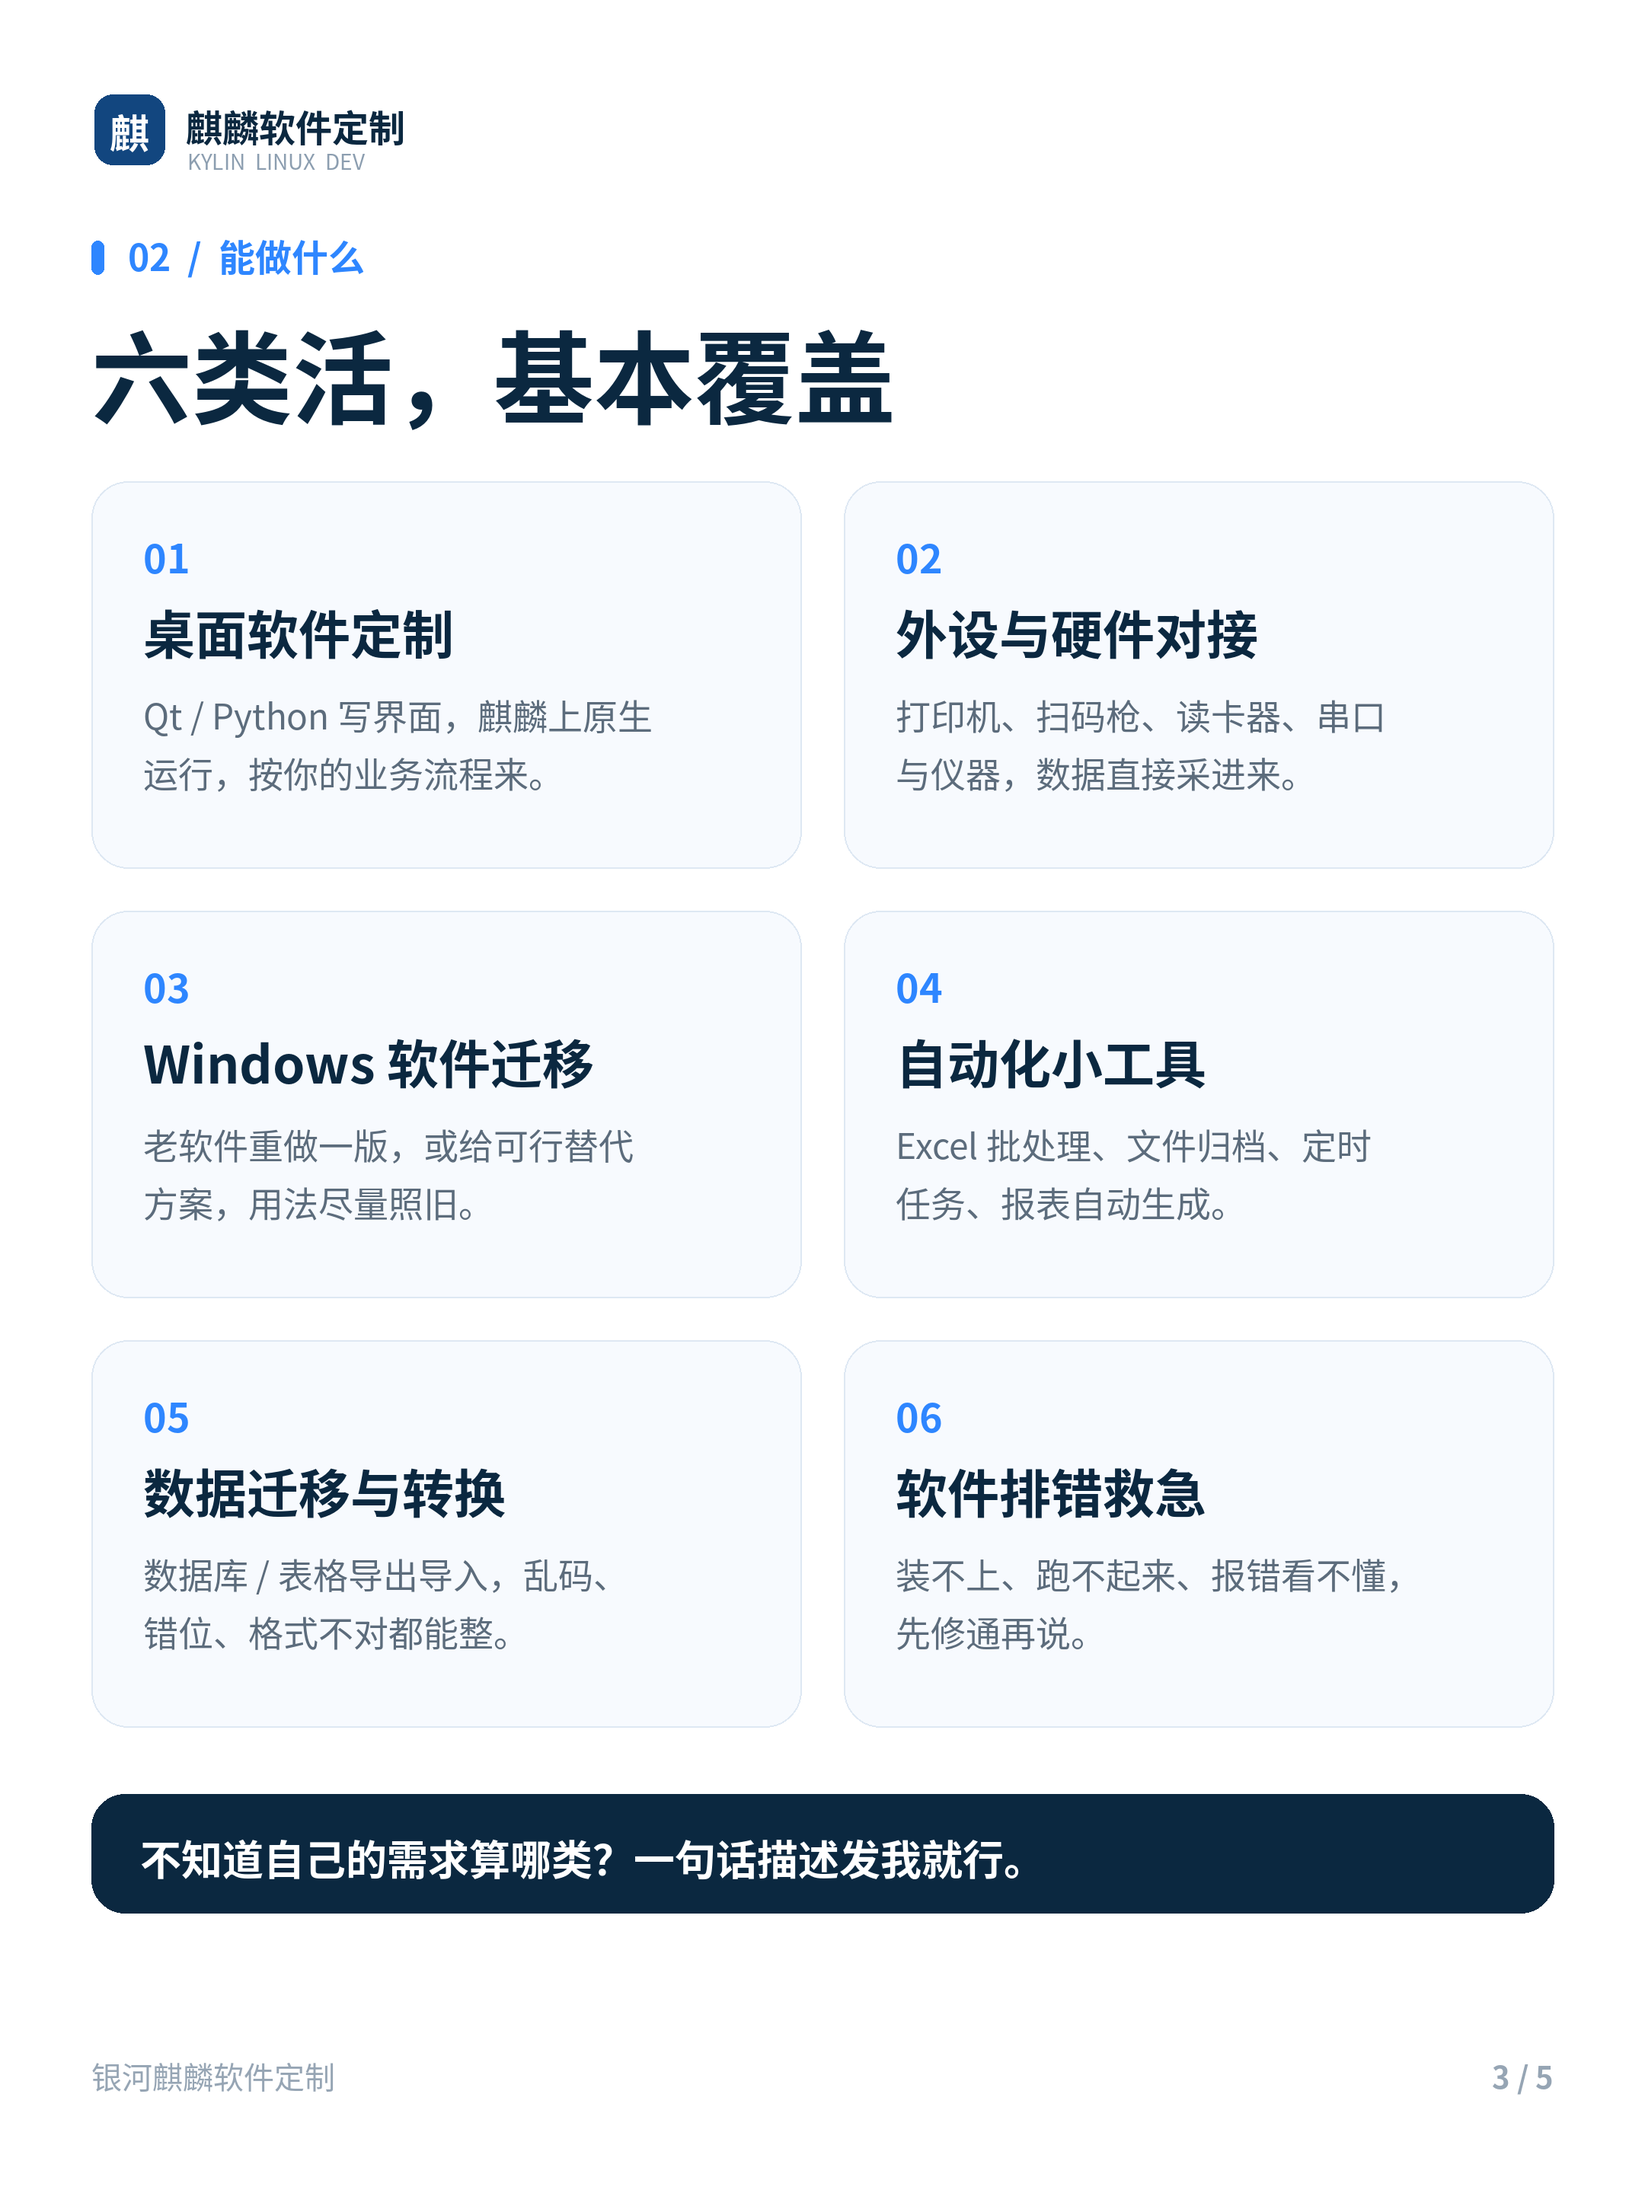
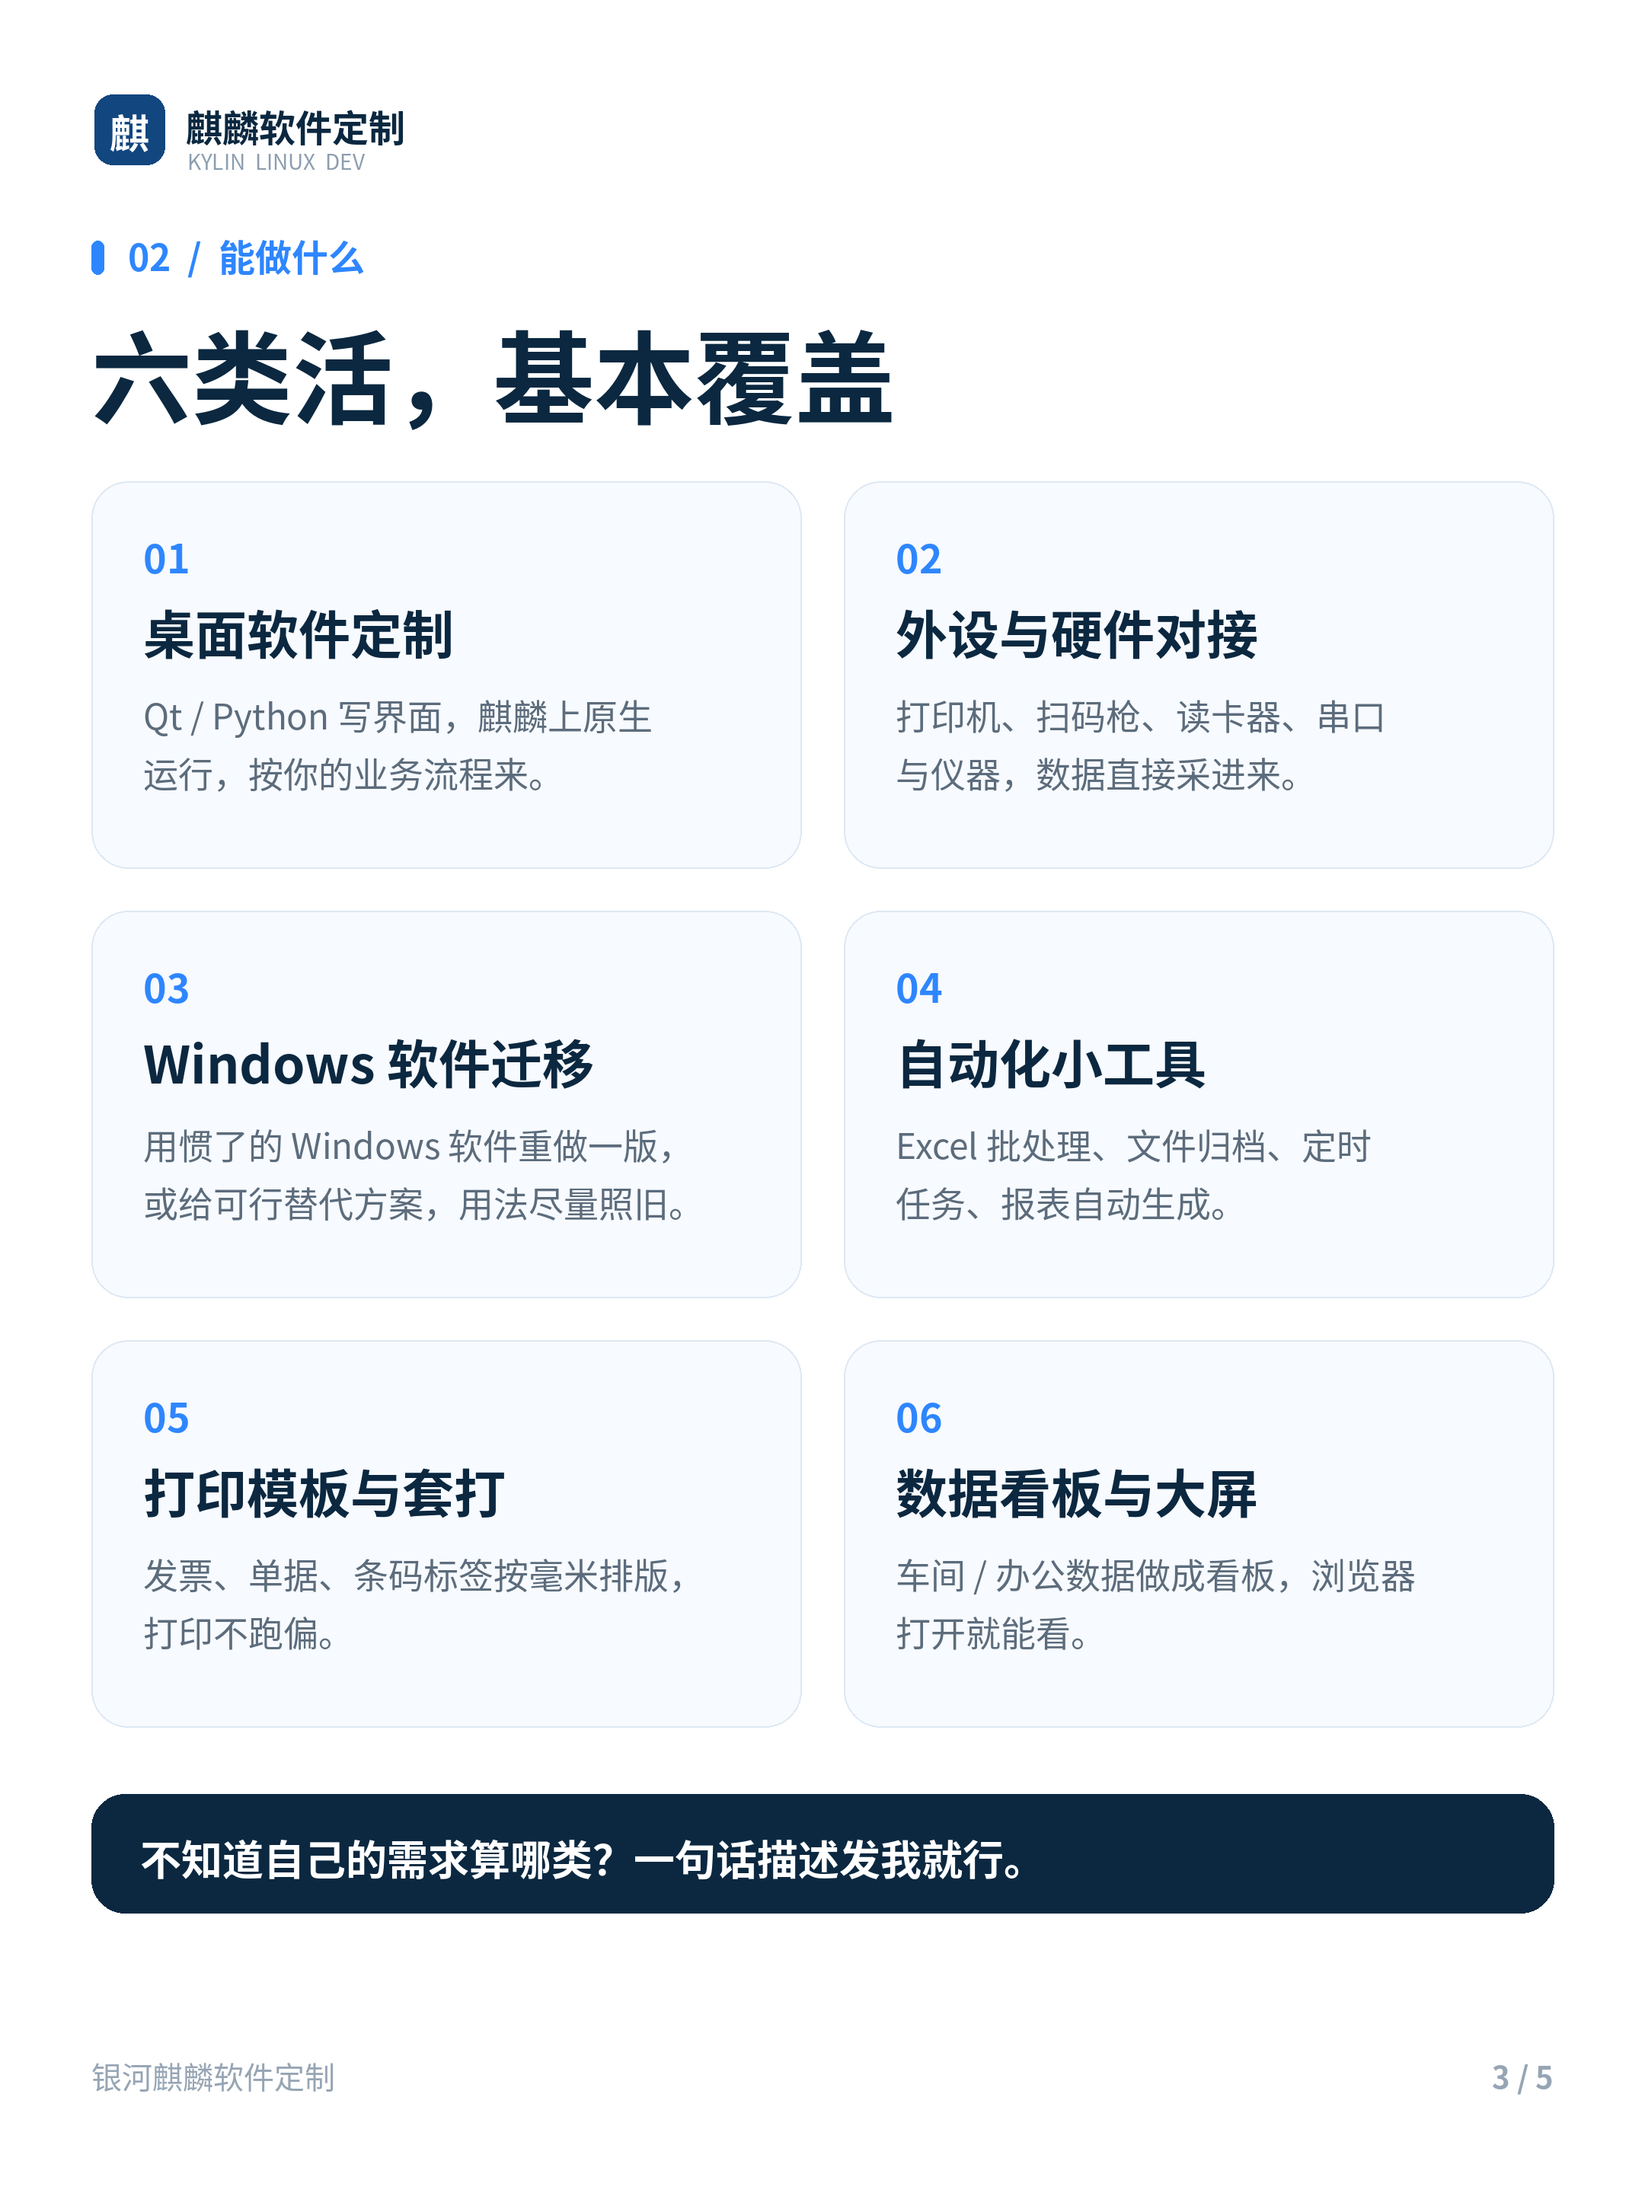
feat: 银河麒麟软件定制文案

Changed region(s): [[0.5273, 0.6562, 0.8375, 0.75], [0.0931, 0.6562, 0.4032, 0.75], [0.0931, 0.5, 0.4032, 0.5625]]

diff --git a/银河麒麟闲鱼文案/闲鱼文案.md b/银河麒麟闲鱼文案/闲鱼文案.md
@@ -19,10 +19,10 @@
 【能做什么】
 1. 桌面软件定制：Qt / Python 开发，原生跑在麒麟桌面版，界面按你的业务流程来
 2. 外设与硬件对接：打印机、扫码枪、读卡器、串口/网口设备、仪器数据采集
-3. Windows 软件迁移：老软件重做一版，或给可行替代方案，用法尽量照旧
+3. Windows 软件迁移：用惯了的 Windows 软件重做一版，或给可行替代方案，用法尽量照旧
 4. 自动化小工具：Excel 批量处理、文件归档、定时任务、报表自动生成
-5. 数据迁移与转换：数据库 / 表格导出导入，乱码、错位、格式不对都能整
-6. 软件排错救急：装不上、跑不起来、报错看不懂，先修通再说
+5. 打印模板与套打：发票、单据、条码标签按毫米排版，打印不跑偏
+6. 数据看板与大屏：车间 / 办公数据做成看板，浏览器打开就能看
 
 【支持环境】
 · 系统：银河麒麟桌面版 V10（SP1/SP2）、银河麒麟服务器版；统信 UOS 也能做
